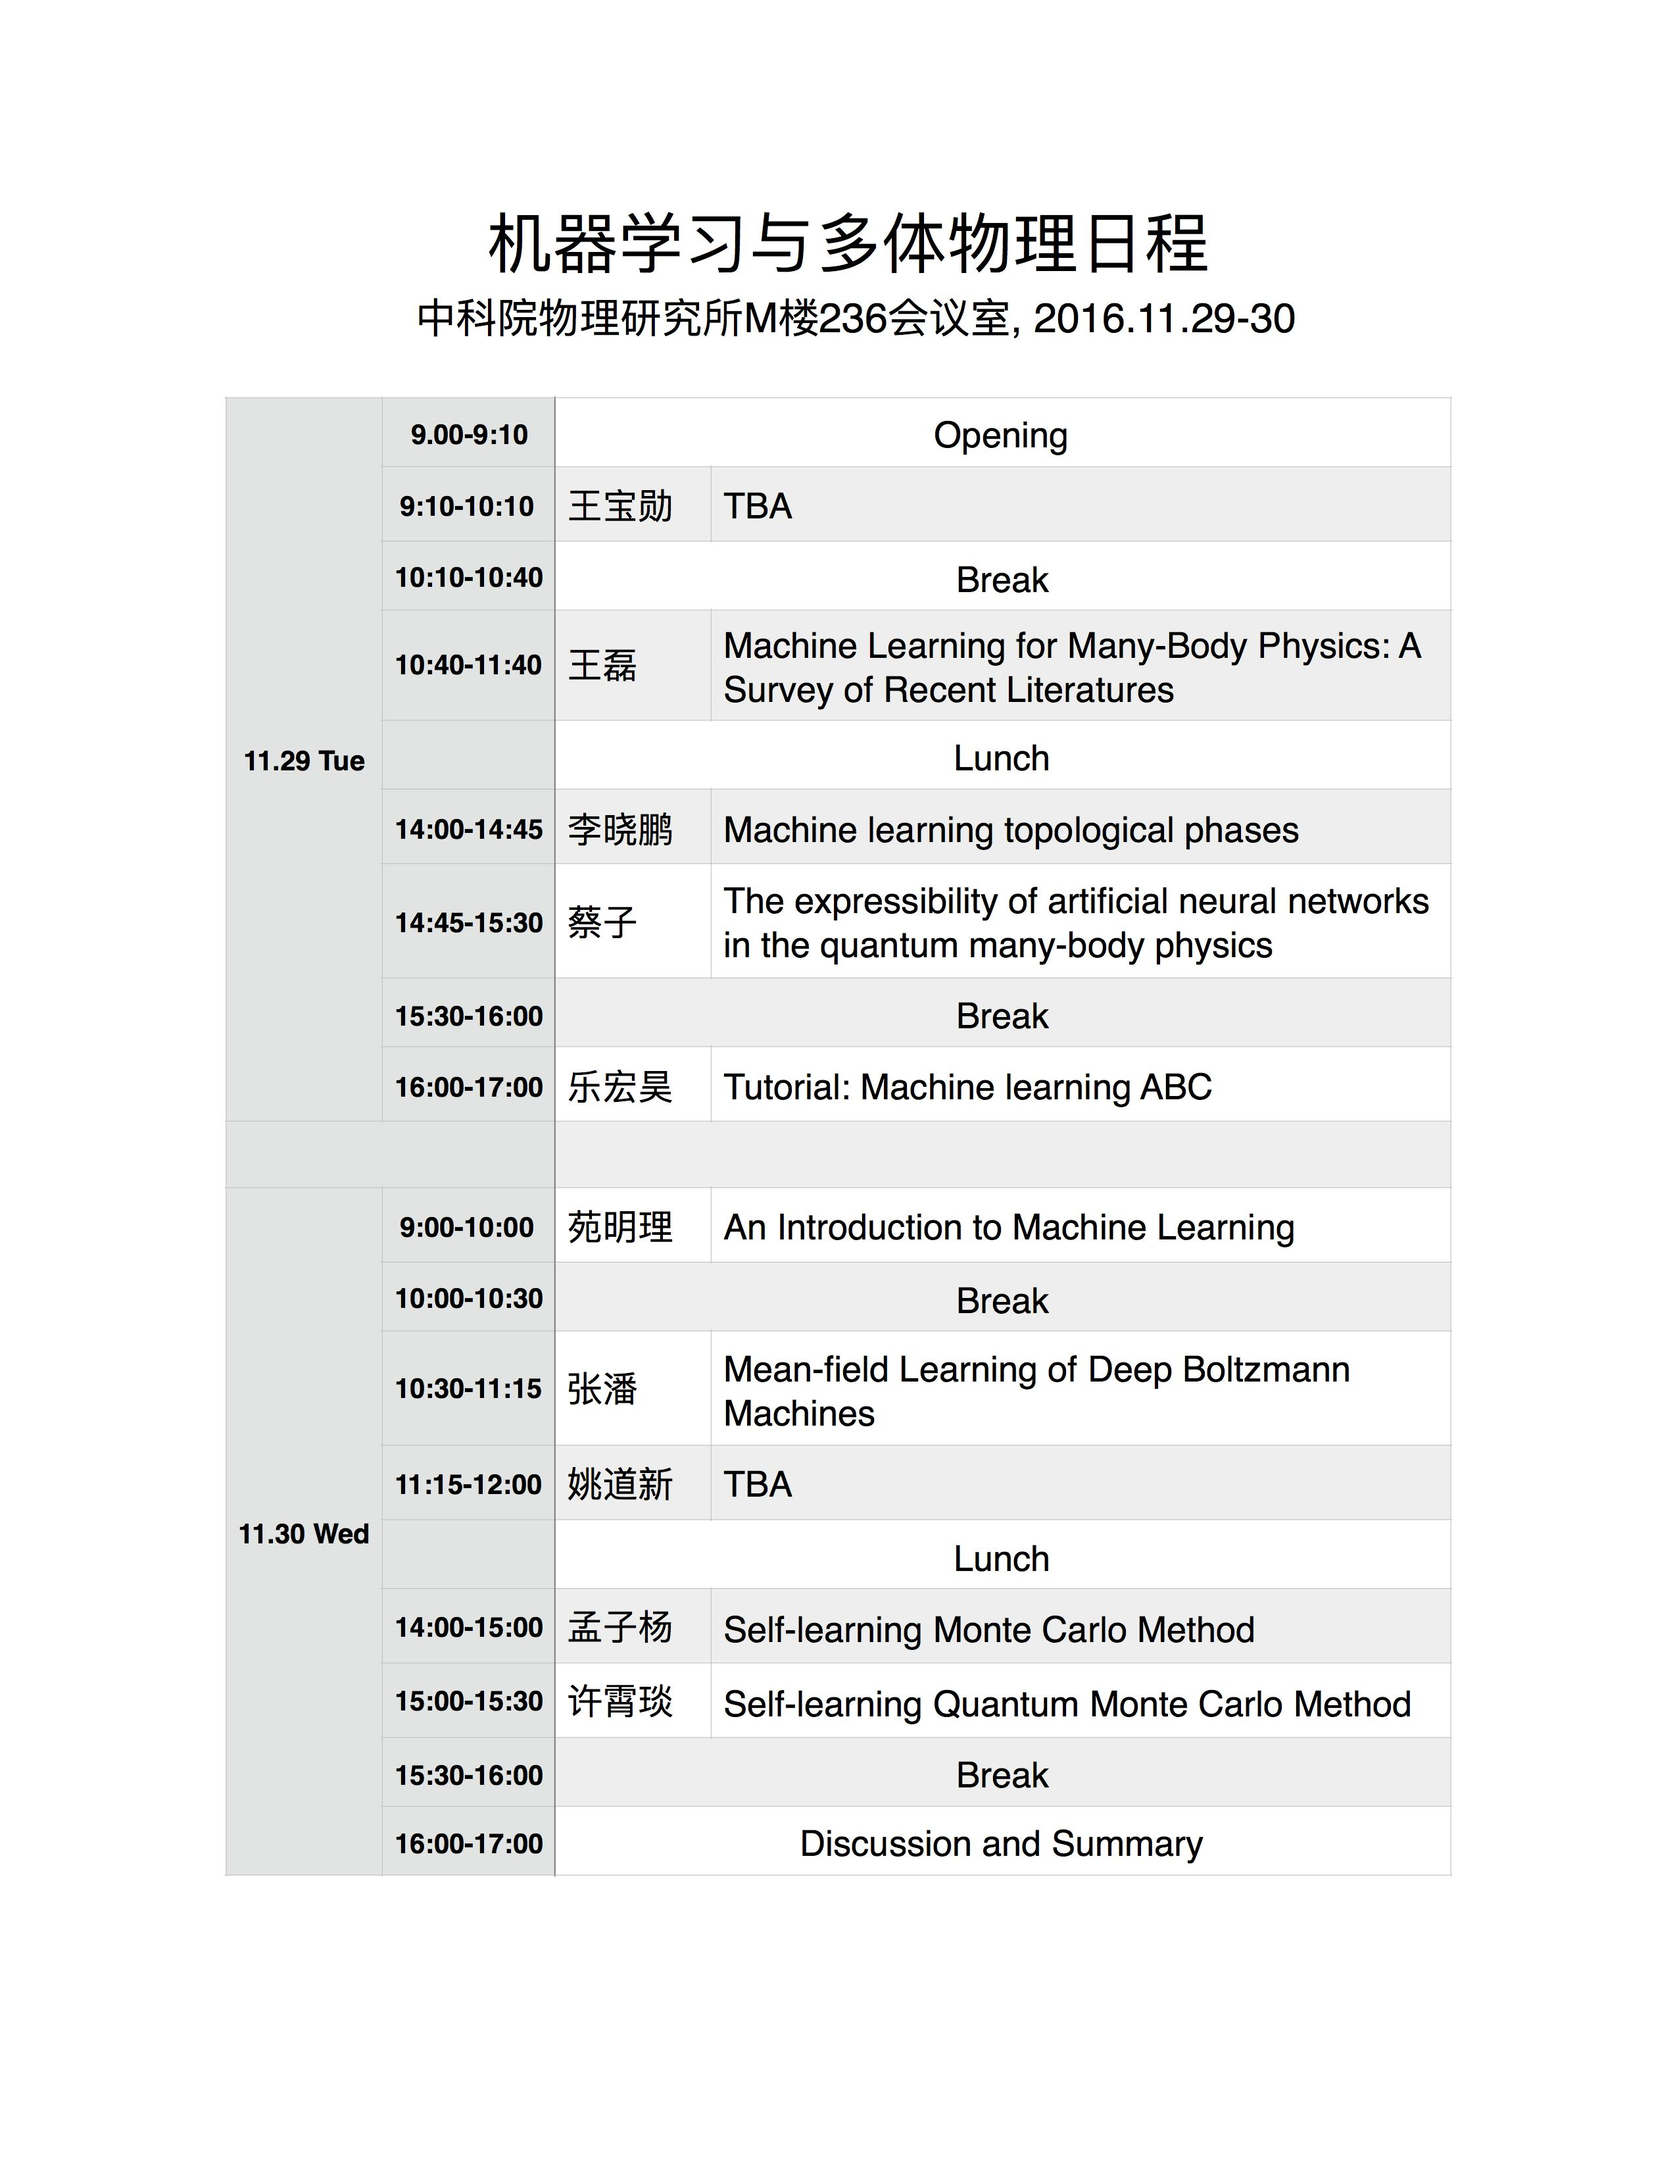
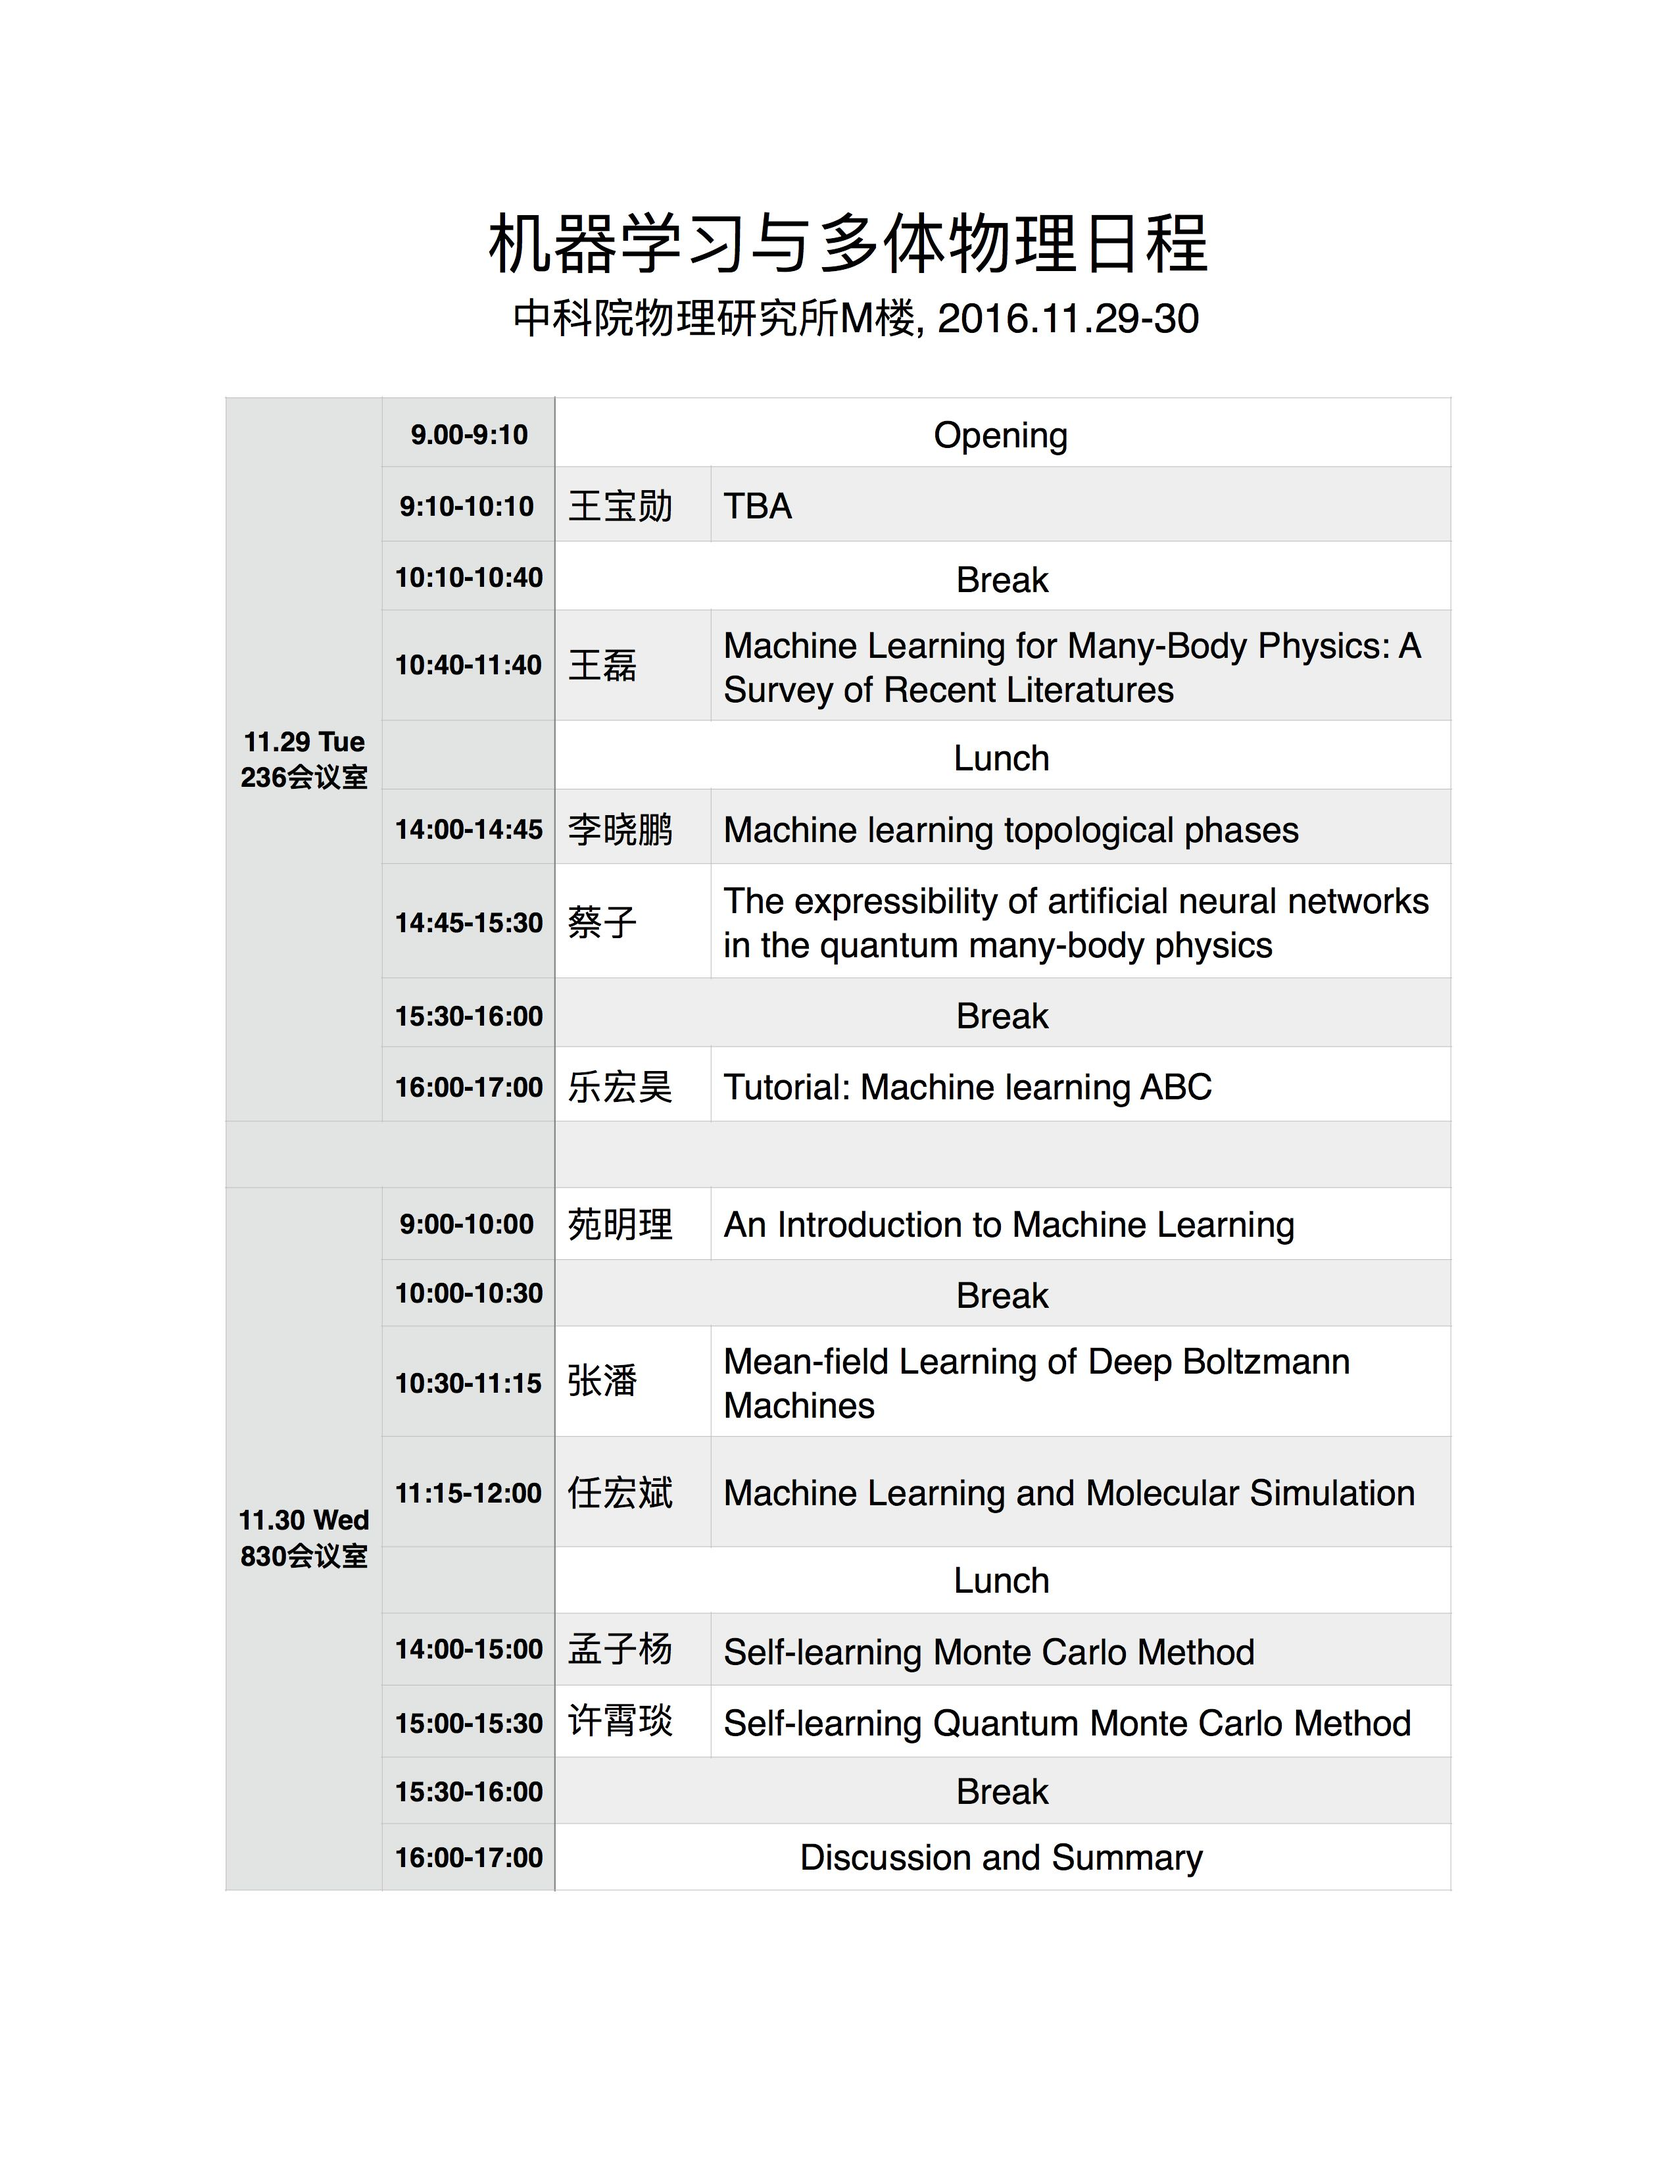
update

diff --git a/ml2016/information.html b/ml2016/information.html
@@ -24,7 +24,7 @@
       <h3 align="left" style="width:580px;">Location</h3>
 
       <p align="left" style="width:580px;">
-        <a href="http://iop.cas.cn/qt/lxfs/">中科院物理研究所M楼236会议室</a> 
+        <a href="http://iop.cas.cn/qt/lxfs/">中科院物理研究所M楼 236会议室(29日) 830会议室(30日)</a> 
         <img align="center" src="buildingM.jpg" style="width:580px; height: 400px;">
       </p>
 
